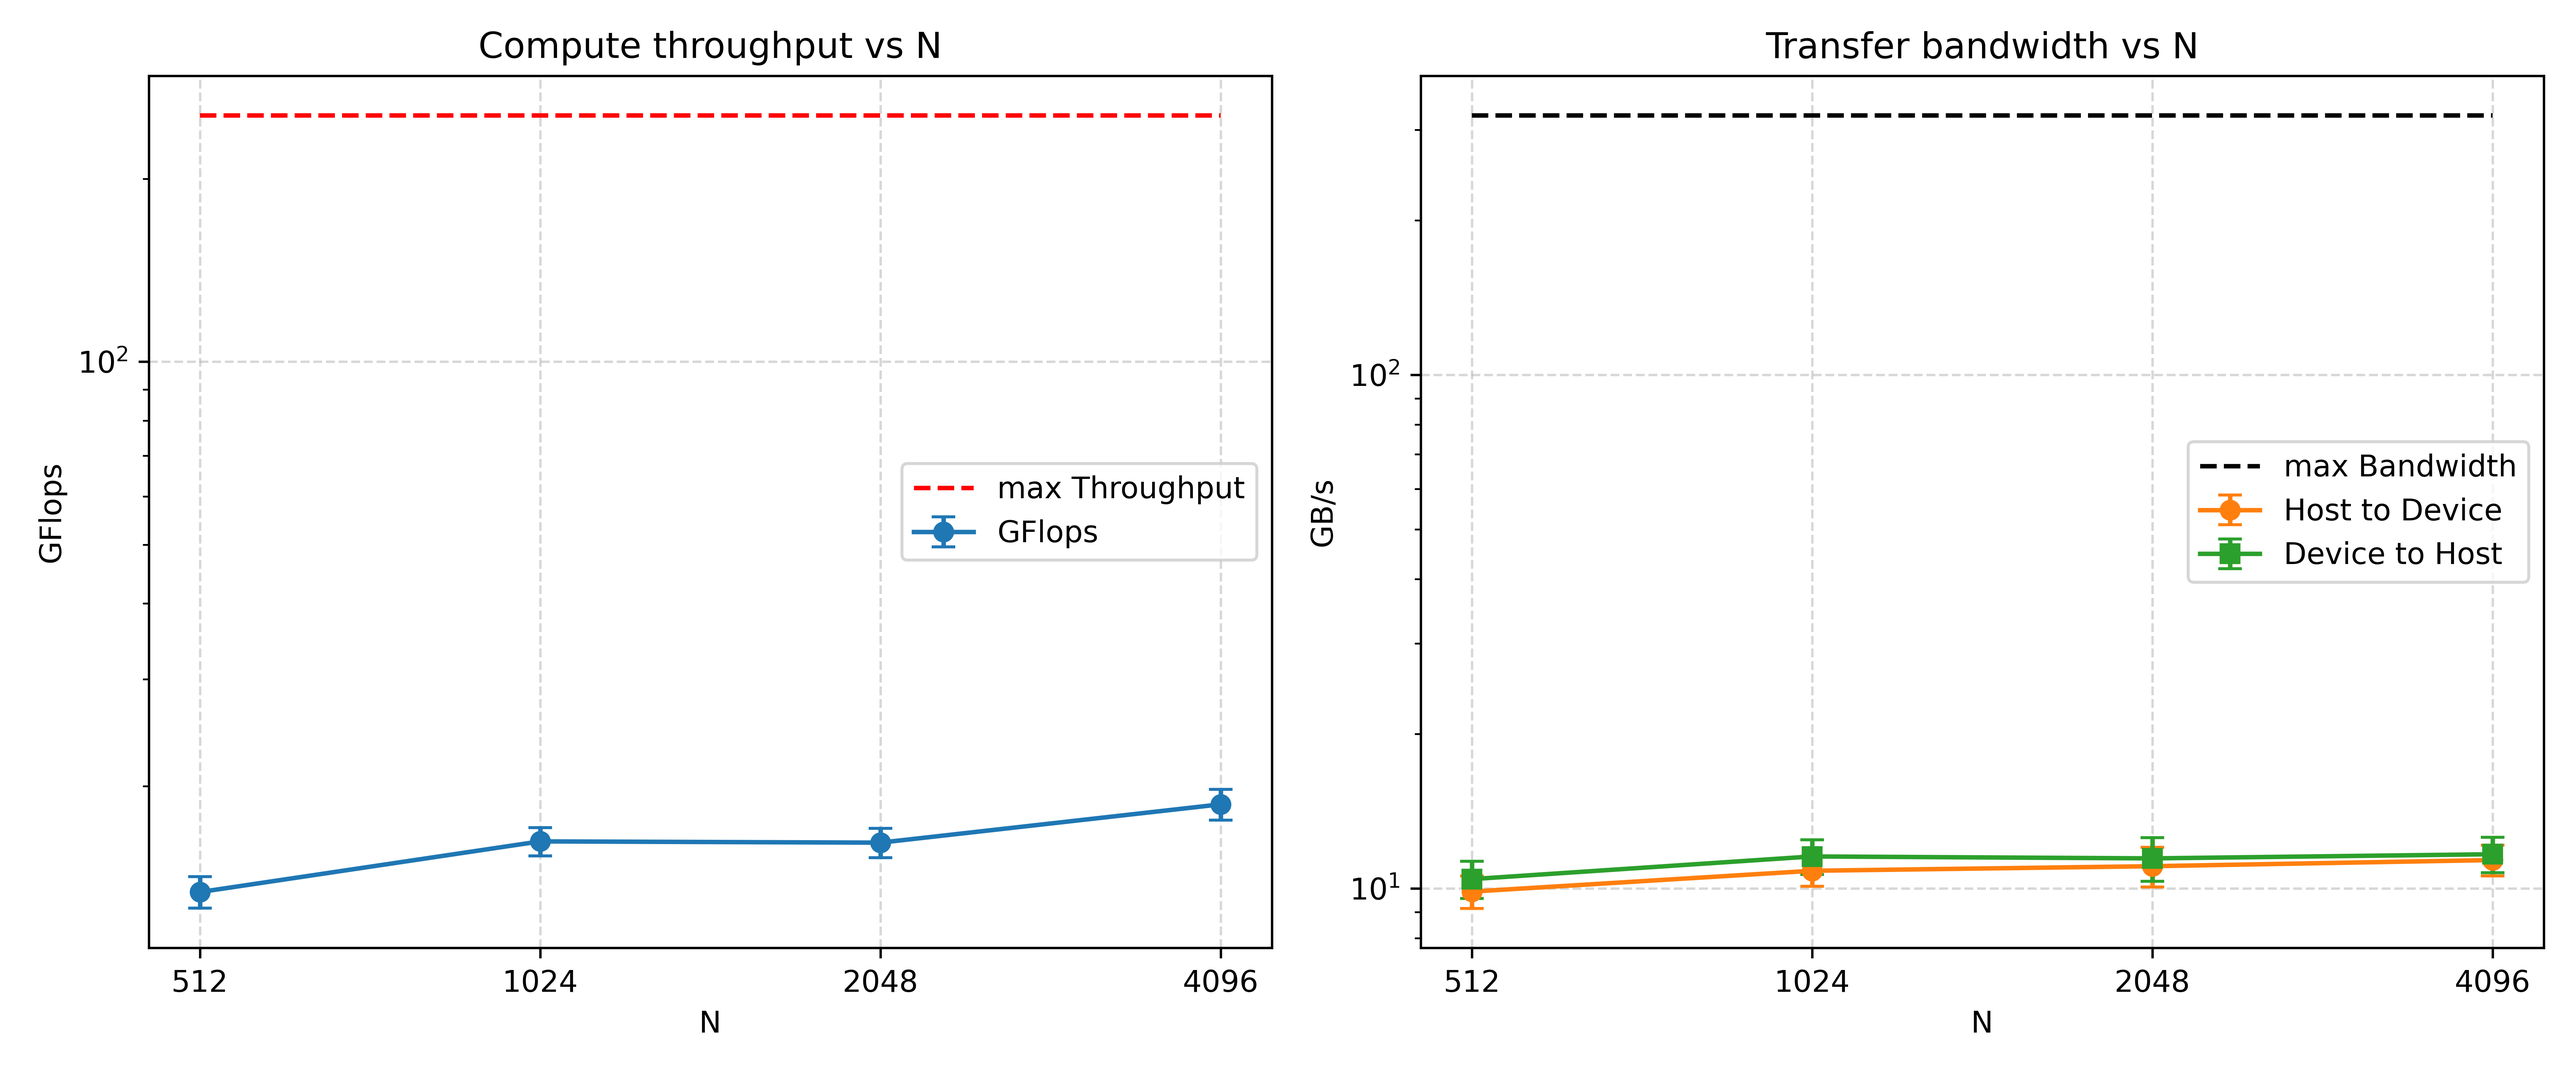
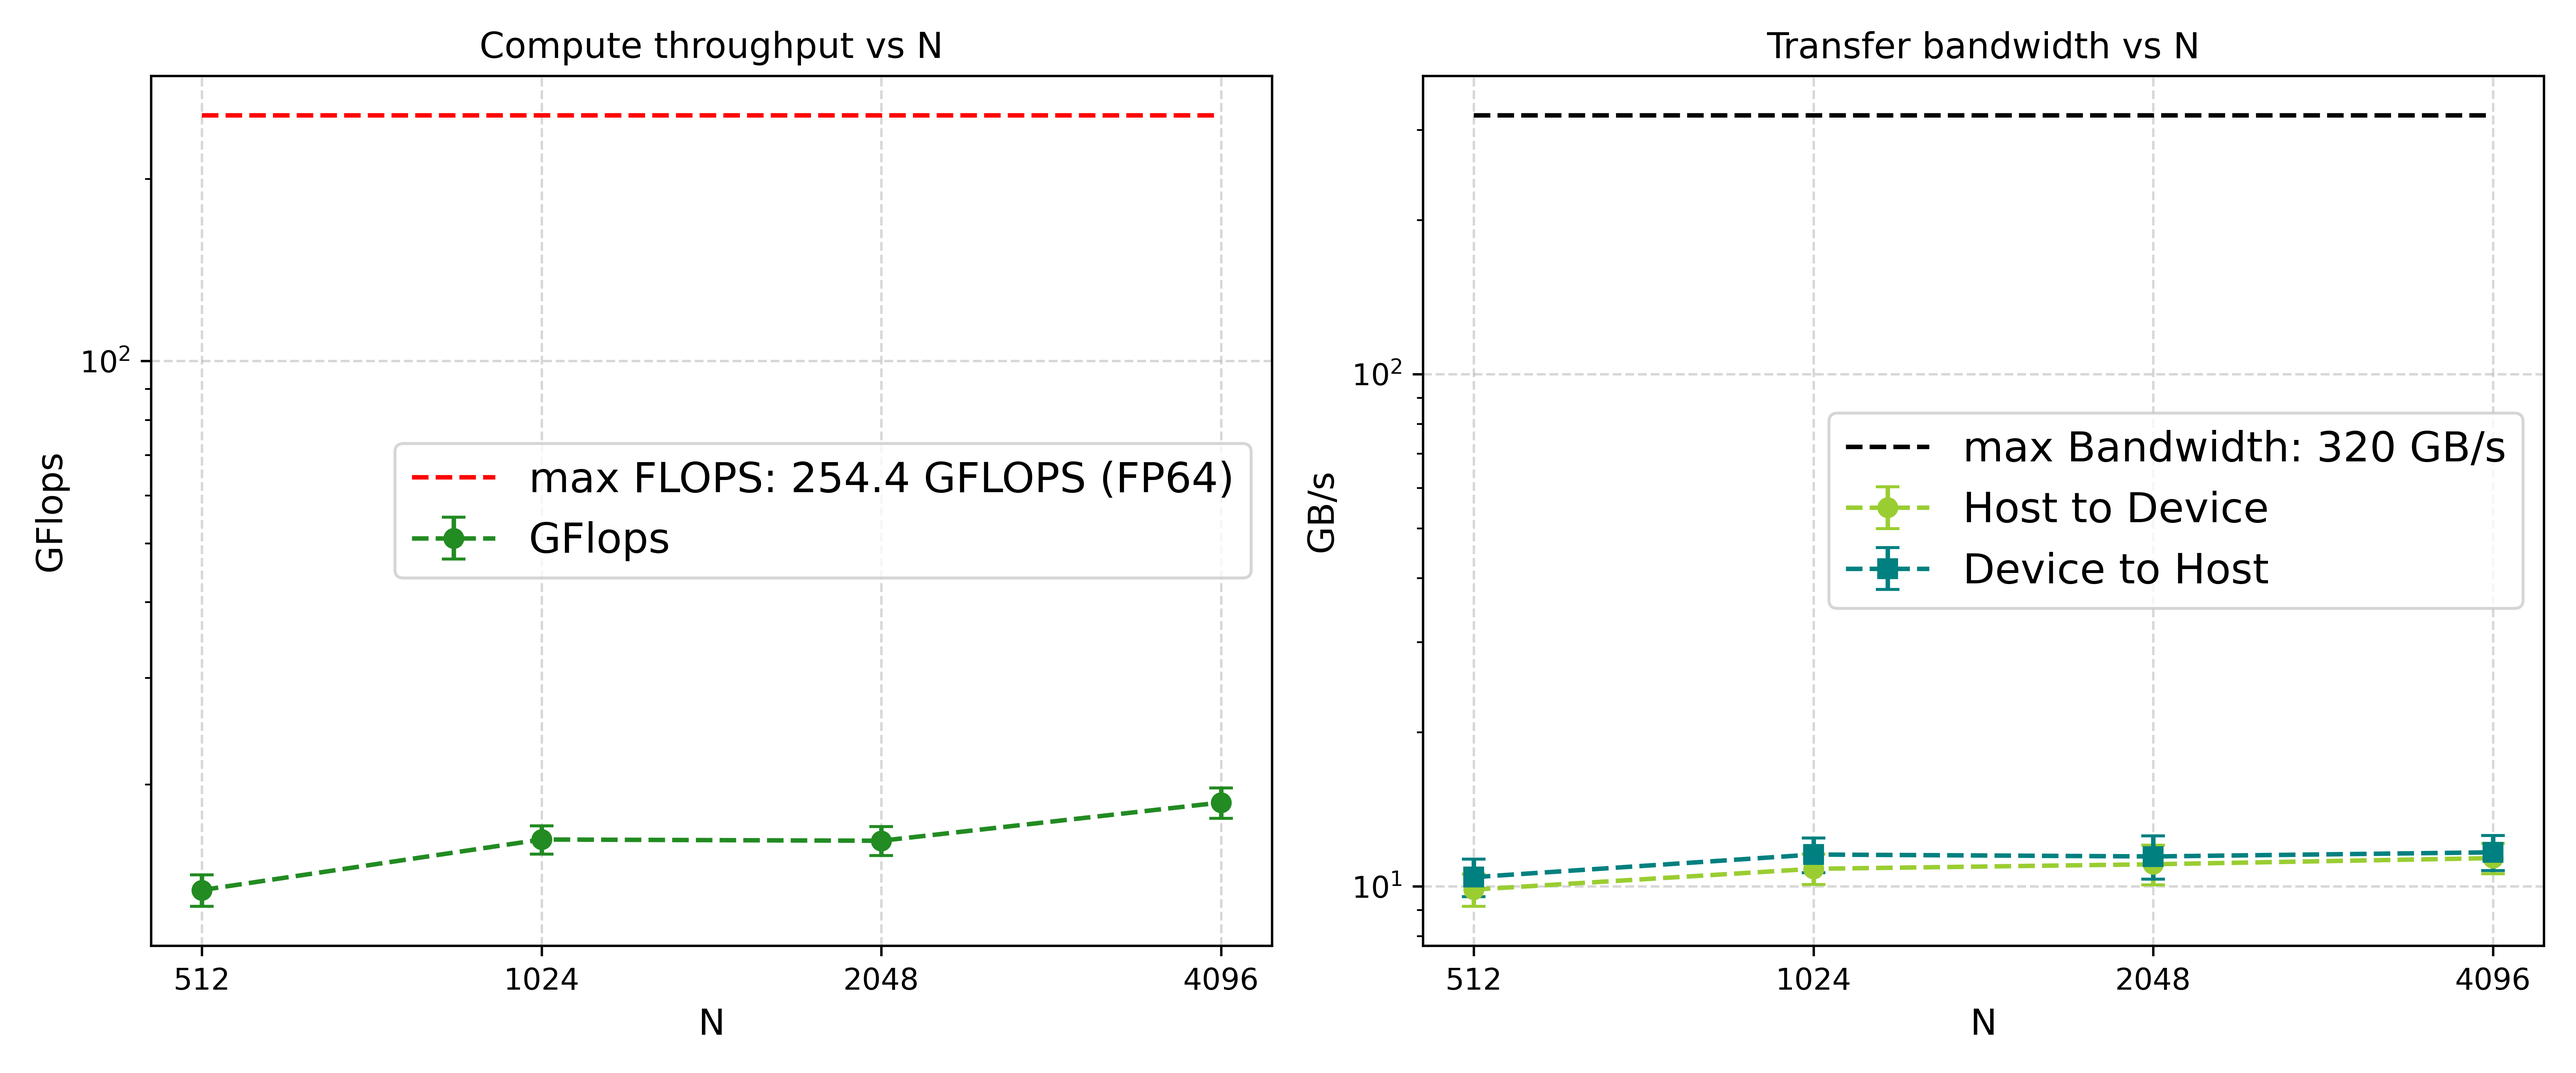
modify bandwidth

diff --git a/plot/plt_gflops_gbps.py b/plot/plt_gflops_gbps.py
@@ -29,39 +29,39 @@ fig, (ax1, ax2) = plt.subplots(1, 2, figsize=(12, 5))
  
 ax1.errorbar(
     n, mean_gflops, yerr=std_gflops,
-    marker="o", capsize=4, color="tab:blue", label="GFlops"
+    marker="o", capsize=4, color="forestgreen", linestyle='--', label="GFlops"
 )
 ax1.plot(
-    x, max_gflops, color="red", linestyle='--', label="max Throughput"
+    x, max_gflops, color="red", linestyle='--', label="max FLOPS: 254.4 GFLOPS (FP64)"
 )
-ax1.set_xlabel("N")
-ax1.set_ylabel("GFlops")
+ax1.set_xlabel("N", fontsize=12)
+ax1.set_ylabel("GFlops", fontsize=12)
 ax1.set_xscale('log', base=2)
 ax1.set_yscale('log')
 ax1.set_xticks(n, labels=n)
 ax1.set_title("Compute throughput vs N")
 ax1.grid(True, linestyle="--", alpha=0.5)
-ax1.legend()
+ax1.legend(fontsize=14)
 
 ax2.errorbar(
     n, mean_gbps1, yerr=std_gbps1,
-    marker="o", capsize=4, color="tab:orange", label="Host to Device"
+    marker="o", capsize=4, color="yellowgreen", linestyle='--', label="Host to Device"
 )
 ax2.errorbar(
     n, mean_gbps2, yerr=std_gbps2,
-    marker="s", capsize=4, color="tab:green", label="Device to Host"
+    marker="s", capsize=4, color="teal", linestyle='--', label="Device to Host"
 )
 ax2.plot(
-    x, max_gbps, color="black", linestyle='--', label="max Bandwidth"
+    x, max_gbps, color="black", linestyle='--', label="max Bandwidth: 320 GB/s"
 )
-ax2.set_xlabel("N")
-ax2.set_ylabel("GB/s")
+ax2.set_xlabel("N", fontsize=12)
+ax2.set_ylabel("GB/s", fontsize=12)
 ax2.set_xscale('log', base=2)
 ax2.set_yscale('log')
 ax2.set_xticks(n, labels=n)
 ax2.set_title("Transfer bandwidth vs N")
 ax2.grid(True, linestyle="--", alpha=0.5)
-ax2.legend()
+ax2.legend(fontsize=14)
 
 fig.tight_layout()
 fig.savefig('throughput_bandwidth.png', dpi=600)
